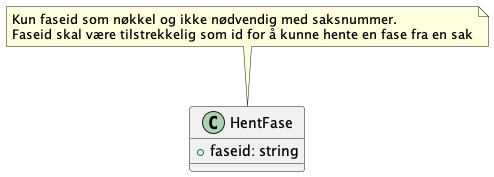
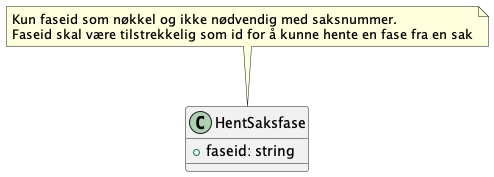
Fikset uml lenke

Changed region(s): [[0.3644, 0.5932, 0.6377, 0.9887]]

diff --git a/README.md b/README.md
@@ -30,10 +30,16 @@ T- jener vil kun gi offentlige data, ikke skjermet data.
 - Det er viktig at vi får frikoblet faser og milepæler
 
 #### Fra møtet 11.09.2024
-- Vi gikk gjennom utkastene som var laget og gjorde endringer i klassediagrammene. Se siste versjoner lenger nede under [Klassediagram](#klassediagram) og kom gjerne med kommentarer som nytt issue [her](https://github.com/ks-no/fiks-saksfaser-specification/issues).
+- Vi gikk gjennom utkastene som var laget og gjorde endringer i klassediagrammene. Se siste versjoner lenger nede under [Klassediagram](#klassediagram) og kom gjerne med kommentarer som nytt issue [her](https://github.com/ks-no/fiks-saksfaser-specification/issues). 
 
 #### Fra møtet 18.09.2024
 - Vi jobbet videre med resultat for hent saksfaser. Endringer er gjort i uml. Se diagram under.
+- Hent Saksfase skal ikke trenge saksnummer som nøkkel. Kun faseid.
+- Vi korrigerte noen navn på kodeobjekter.
+- Global/intern som attributt på fase og milepel er ikke nødvendig da interne data ikke skal komme som noe resultat i denne protkollen. Kun globale data som skal vises.
+- Kodeverdi og kodebeskrivelse for kode-objekter er navn hentet fra andre protokoller som vi ønsker å bruke videre i denne protokollen.
+- Det ble diskutert om Milepel som objekt burde være likt i Hent saksfaser og Hent saksfase. Vi konkluderte ikke noe her, men tar det opp igjen på neste møte. Det er fordeler og ulemper med å gjøre det likt.
+
 
 ### Json schemas
 _Schemas er ikke oppdatert. Se klassediagram under for innspill_
@@ -56,7 +62,7 @@ _Schemas er ikke oppdatert. Se klassediagram under for innspill_
 Henter en enkelt saksfase basert på saksnummer og faseid.
 Faseid får man ut fra hent saksfaser tjenesten.
 
-![](Dokumentasjon/V1/ClassDiagrams/no.ks.fiks.saksfaser.v1.prosess.hent/classdiagram.svg)
+![](Dokumentasjon/V1/ClassDiagrams/no.ks.fiks.saksfaser.v1.saksfase.hent/classdiagram.svg)
 
 #### Melding - Hent saksfase resultat
 
